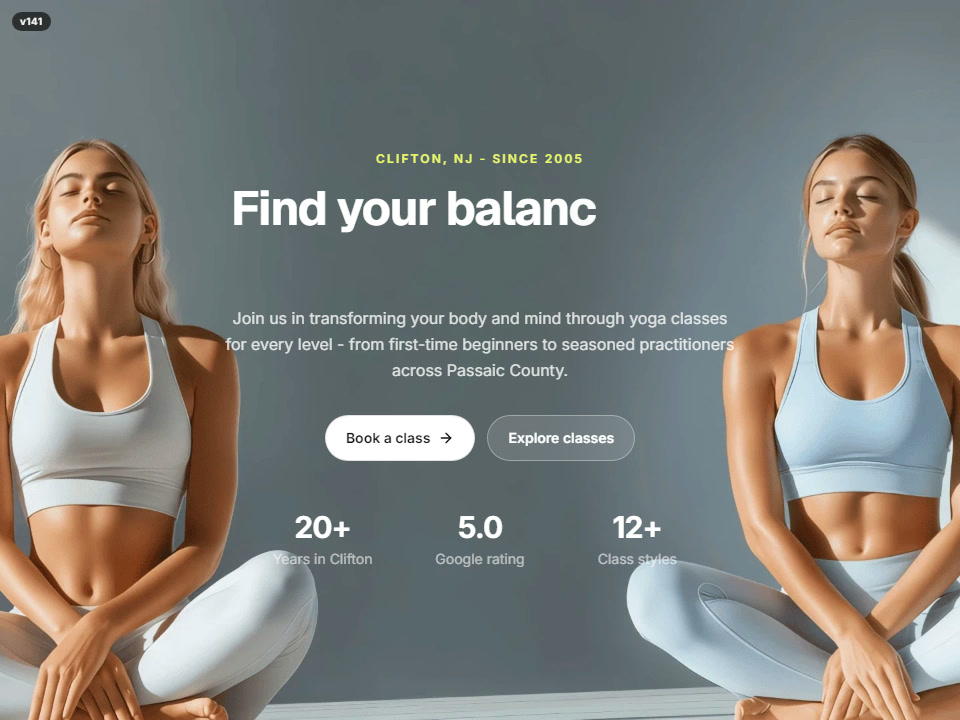
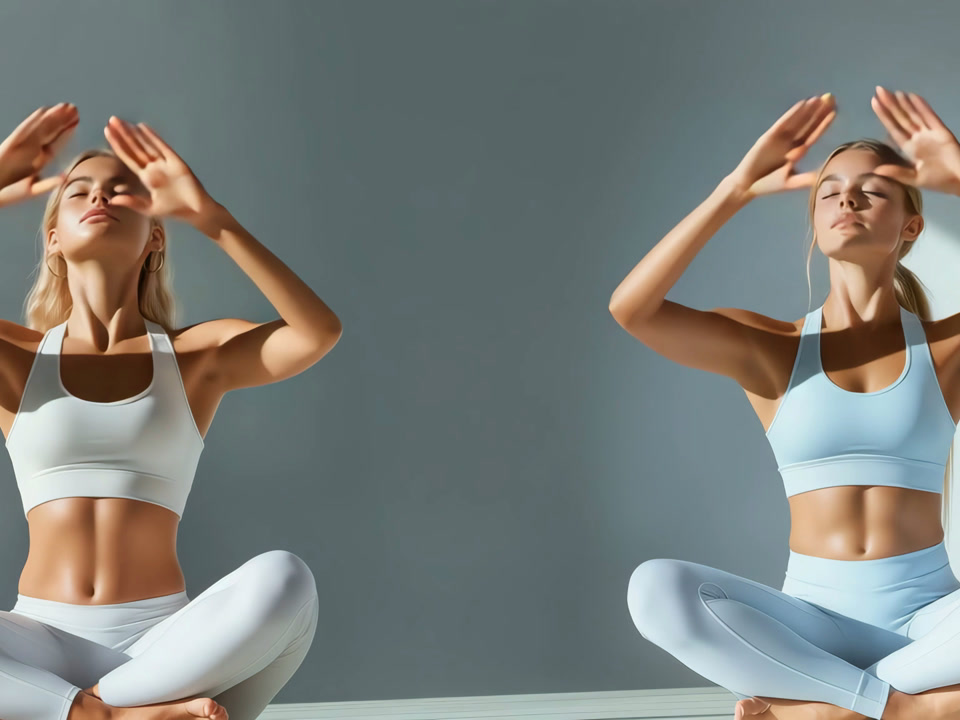
v33.01: YogaCentric strip hero frames from video source

diff --git a/lib/version.ts b/lib/version.ts
@@ -4,4 +4,4 @@
 // Why: deploy-propagation tell. After shipping, glance at the live site, confirm
 // the number bumped. Catches stale edge caches and failed builds at a glance.
 // Rendered in Nav (header) + Footer.
-export const SITE_VERSION = "v33.00";
+export const SITE_VERSION = "v33.01";
